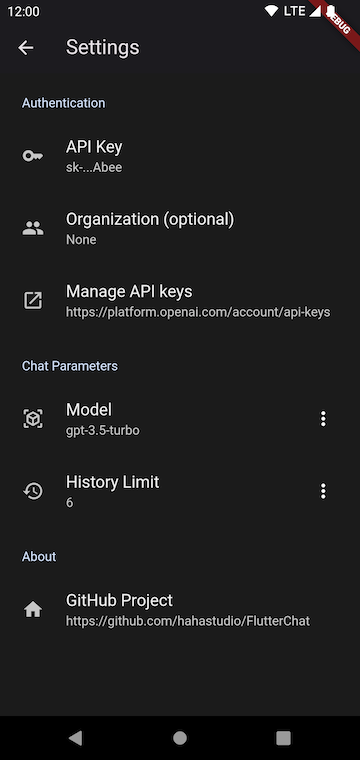
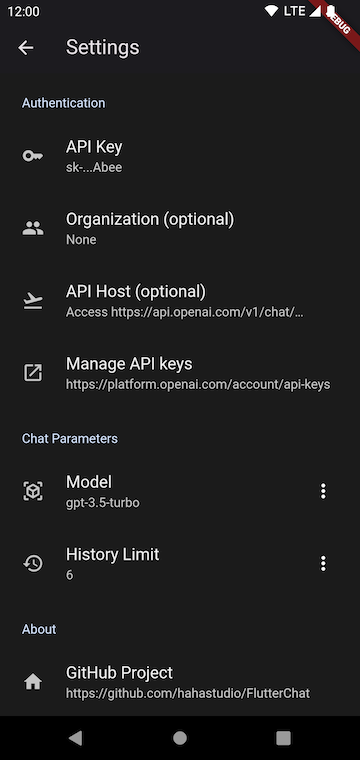
update version to 1.0.6

diff --git a/README.md b/README.md
@@ -17,6 +17,7 @@ A new Flutter project which communicates with [OpenAI API](https://platform.open
 - Support to choose GPT models (gpt-3.5-turbo, gpt-4, gpt-4-32k)
 - Support to limit the count of conversation history when sending
 - Support to show token usage in real time
+- Support customized API Host
 
 ## How to use
 
